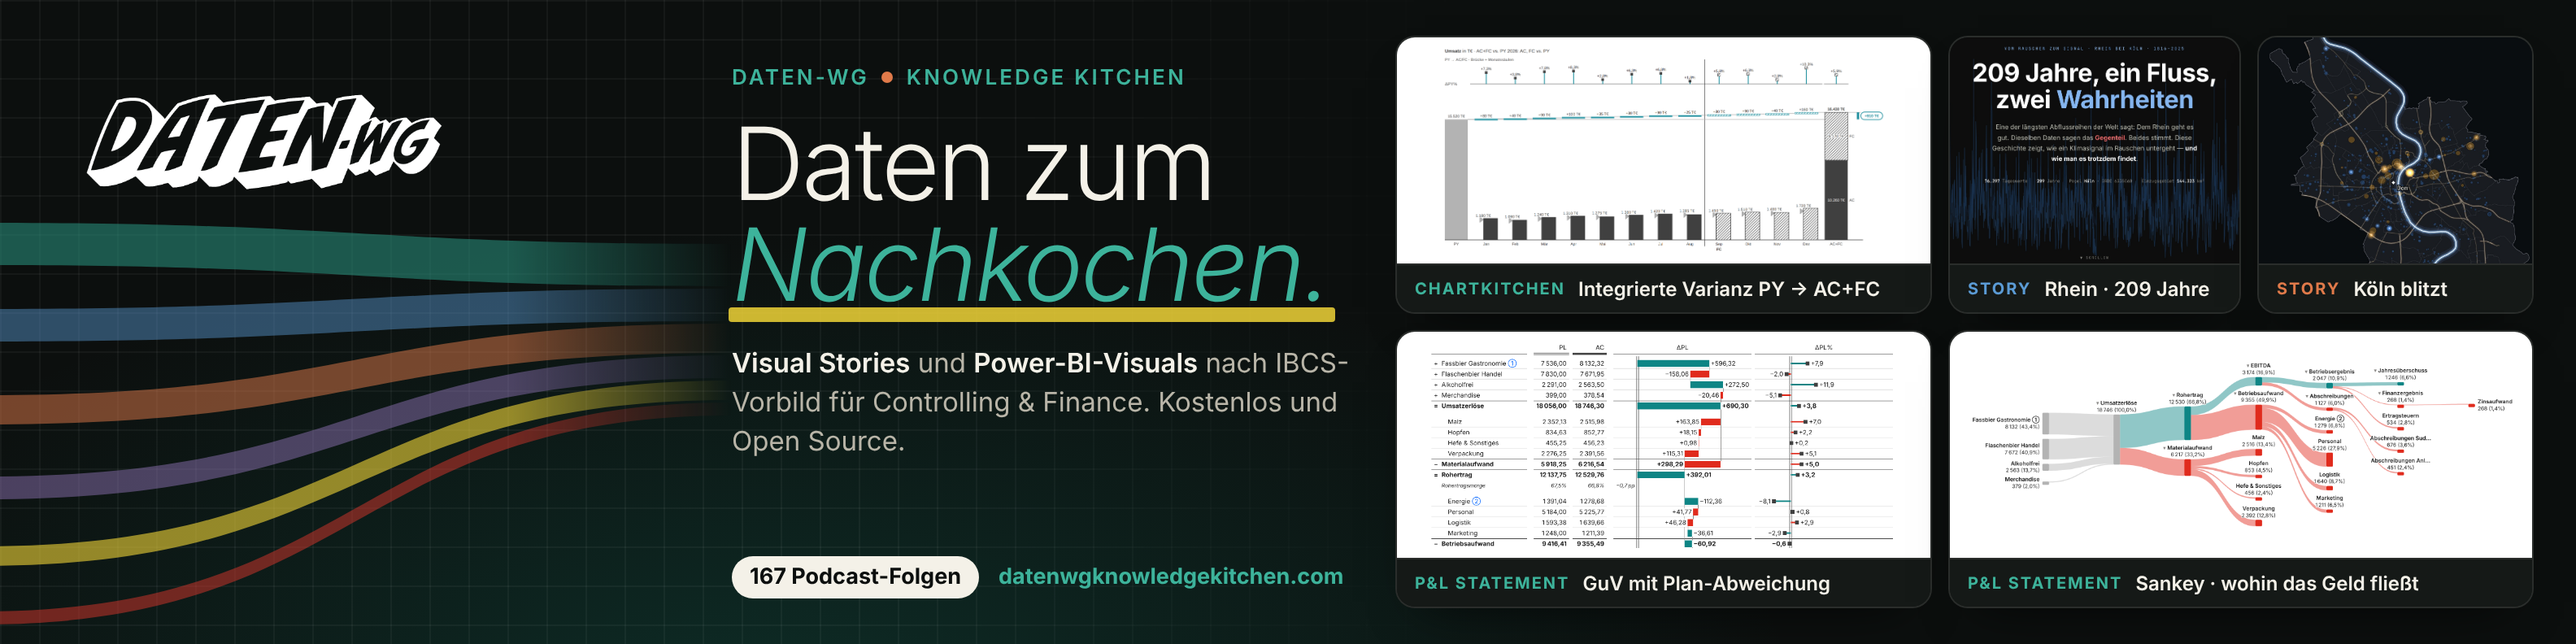
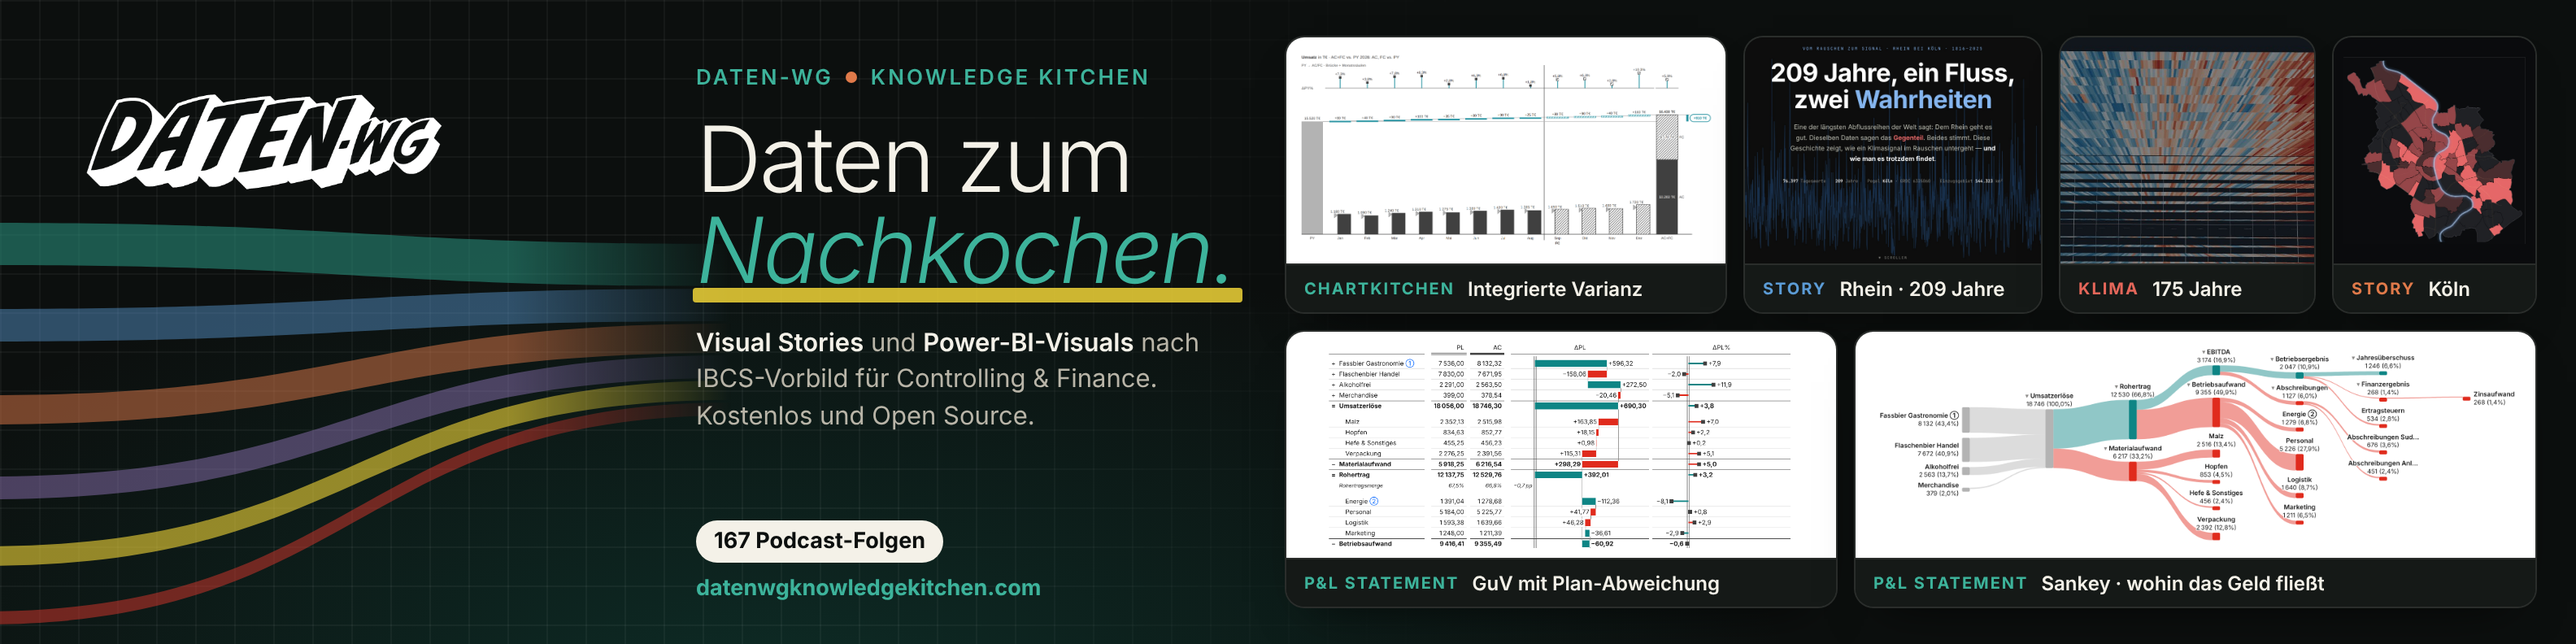
LinkedIn-Header: Wärmestreifen und Köln-Stadtteilkarte ergänzt
Klima-Kachel aus waermestreifen-3d, Köln-Karte (Stadtteile) aus der Blitzer-Story statt der Nachtkarte; Text etwas schmaler für sechs Kacheln.

Claude-Session: https://claude.ai/code/session_01VMPzbN8istGzhnAS32FMDE

Changed region(s): [[0.25, 0.0303, 1.0, 0.9394], [0.2812, 0.0909, 0.4688, 0.1515]]

diff --git a/social/linkedin-header.html b/social/linkedin-header.html
@@ -27,21 +27,21 @@ html,body{background:#333}
 #flow{position:absolute;left:0;top:0;width:450px;height:396px}
 .logo{position:absolute;left:42px;top:24px;width:236px;filter:invert(1);mix-blend-mode:screen}
 
-.copy{position:absolute;left:450px;top:40px;width:390px}
+.copy{position:absolute;left:428px;top:40px;width:340px}
 .eyebrow{font-family:var(--sans);font-size:13px;letter-spacing:.12em;text-transform:uppercase;color:var(--brand-light);font-weight:600}
 .eyebrow .dot{display:inline-block;width:7px;height:7px;border-radius:50%;background:var(--warm);margin:0 8px 2px;vertical-align:middle}
-h1{font-family:var(--display);font-weight:300;font-size:62px;line-height:1;letter-spacing:-.025em;margin-top:14px}
+h1{font-family:var(--display);font-weight:300;font-size:56px;line-height:1;letter-spacing:-.025em;margin-top:14px}
 h1 em{font-style:italic;font-weight:300;color:var(--brand-light);position:relative}
 h1 em::after{content:"";position:absolute;left:-2px;right:-4px;bottom:2px;height:9px;background:var(--yellow);opacity:.85;z-index:-1;border-radius:2px}
 h1 em{z-index:0;isolation:isolate}
-.sub{font-size:16.5px;line-height:1.45;color:var(--soft);margin-top:18px}
+.sub{font-size:15.5px;line-height:1.45;color:var(--soft);margin-top:18px}
 .sub strong{color:var(--ink);font-weight:600}
-.meta{position:absolute;left:450px;bottom:28px;display:flex;gap:12px;align-items:center;font-family:var(--sans);font-size:13.5px}
+.meta{position:absolute;left:428px;bottom:26px;display:flex;flex-direction:column;gap:8px;align-items:flex-start;font-family:var(--sans);font-size:13.5px}
 .pill{border-radius:999px;padding:5px 11px;font-weight:700;background:var(--ink);color:#0C0F0E}
 .url{color:var(--brand-light);font-weight:700}
 
 /* Kachel-Mosaik mit echten Beispielen */
-.mosaic{position:absolute;right:26px;top:22px;width:700px;height:352px;display:flex;flex-direction:column;gap:10px}
+.mosaic{position:absolute;right:24px;top:22px;width:770px;height:352px;display:flex;flex-direction:column;gap:10px}
 .row{display:flex;gap:10px;height:171px}
 .tile{position:relative;flex:none;border-radius:12px;overflow:hidden;border:1px solid var(--tile-line);background:var(--tile);
   box-shadow:0 14px 30px -18px rgba(0,0,0,.8)}
@@ -49,6 +49,8 @@ h1 em{z-index:0;isolation:isolate}
 .tile.light .pic{background:#fff;padding:6px 8px}
 .tile .pic img{display:block;max-width:100%;max-height:100%}
 .tile.dark .pic img{width:100%;height:100%;object-fit:cover;max-width:none;max-height:none}
+.tile.dark.fit .pic{background:#0A0B0D}
+.tile.dark.fit .pic img{object-fit:contain;padding:6px}
 .cap{position:absolute;left:0;right:0;bottom:0;height:30px;display:flex;align-items:center;gap:8px;padding:0 11px;
   background:var(--tile);border-top:1px solid var(--tile-line);white-space:nowrap}
 .cap b{font-family:var(--sans);font-size:10px;letter-spacing:.1em;text-transform:uppercase;color:var(--c);font-weight:700}
@@ -73,25 +75,29 @@ h1 em{z-index:0;isolation:isolate}
 
   <div class="mosaic">
     <div class="row">
-      <div class="tile light" style="width:330px;--c:var(--brand-light)">
+      <div class="tile light" style="width:272px;--c:var(--brand-light)">
         <div class="pic"><img src="img/ck-integrierte-varianz.png" alt="ChartKitchen: integrierte Varianz-Brücke"></div>
-        <div class="cap"><b>ChartKitchen</b><span>Integrierte Varianz PY → AC+FC</span></div>
+        <div class="cap"><b>ChartKitchen</b><span>Integrierte Varianz</span></div>
       </div>
-      <div class="tile dark" style="width:180px;--c:var(--blue)">
+      <div class="tile dark" style="width:184px;--c:var(--blue)">
         <div class="pic"><img src="img/story-rhein.jpg" alt="Visual Story: 209 Jahre Rhein bei Köln"></div>
         <div class="cap"><b>Story</b><span>Rhein · 209 Jahre</span></div>
       </div>
-      <div class="tile dark" style="width:170px;--c:var(--warm)">
-        <div class="pic"><img src="img/story-koeln-nacht.jpg" alt="Visual Story: Köln blitzt, Karte Köln bei Nacht"></div>
-        <div class="cap"><b>Story</b><span>Köln blitzt</span></div>
+      <div class="tile dark" style="width:158px;--c:#E5675A">
+        <div class="pic"><img src="img/story-waermestreifen.jpg" alt="Wärmestreifen in 3D: 175 Jahre Klimageschichte"></div>
+        <div class="cap"><b>Klima</b><span>175 Jahre</span></div>
+      </div>
+      <div class="tile dark fit" style="width:126px;--c:var(--warm)">
+        <div class="pic"><img src="img/story-koeln-karte.jpg" alt="Visual Story Köln blitzt: Karte der Stadtteile"></div>
+        <div class="cap"><b>Story</b><span>Köln</span></div>
       </div>
     </div>
     <div class="row">
-      <div class="tile light" style="width:330px;--c:var(--brand-light)">
+      <div class="tile light" style="width:340px;--c:var(--brand-light)">
         <div class="pic"><img src="img/pnl-statement.png" alt="P&amp;L Statement byDatenWG: GuV mit ΔPL-Wasserfall"></div>
         <div class="cap"><b>P&amp;L Statement</b><span>GuV mit Plan-Abweichung</span></div>
       </div>
-      <div class="tile light" style="width:360px;--c:var(--brand-light)">
+      <div class="tile light" style="width:420px;--c:var(--brand-light)">
         <div class="pic"><img src="img/pnl-sankey.png" alt="P&amp;L Statement byDatenWG: Sankey der GuV"></div>
         <div class="cap"><b>P&amp;L Statement</b><span>Sankey · wohin das Geld fließt</span></div>
       </div>
